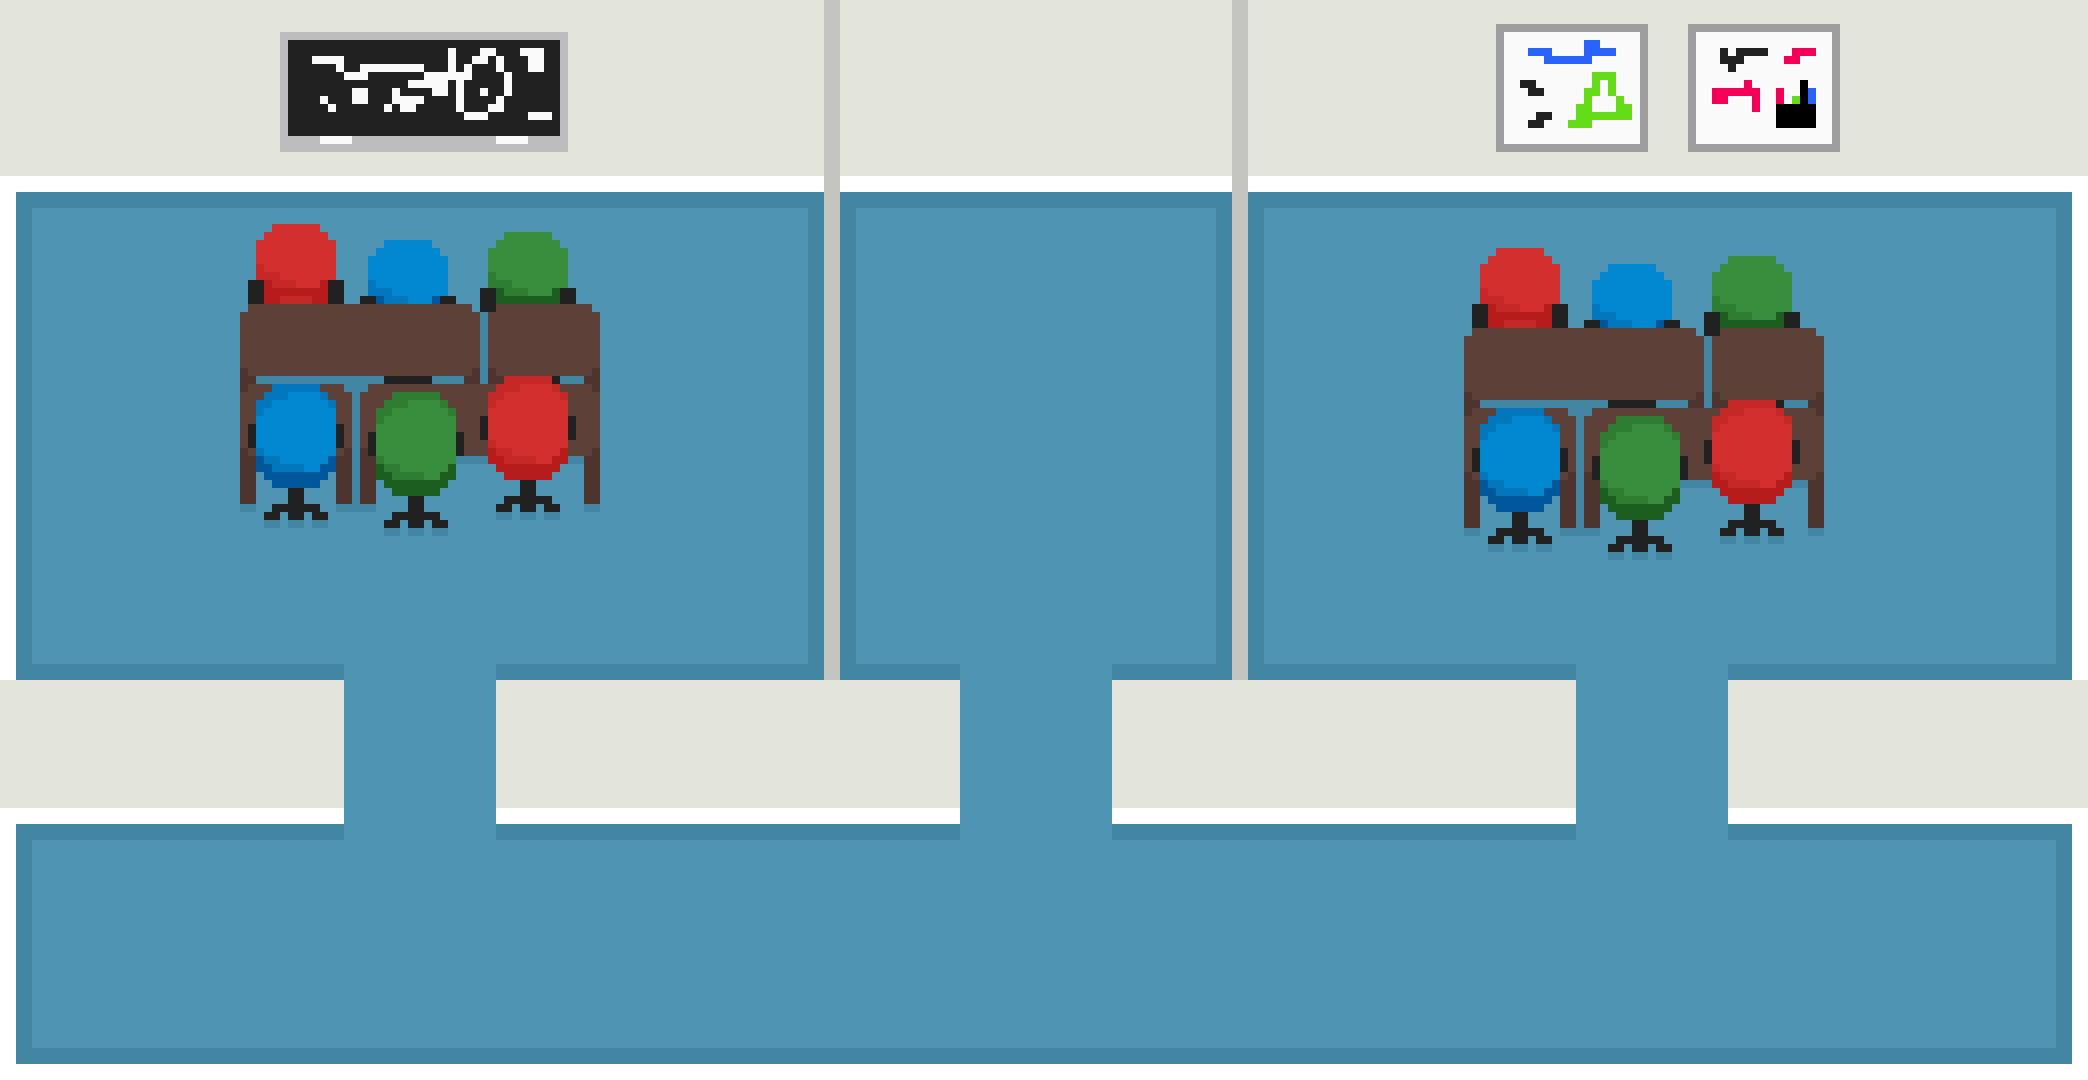
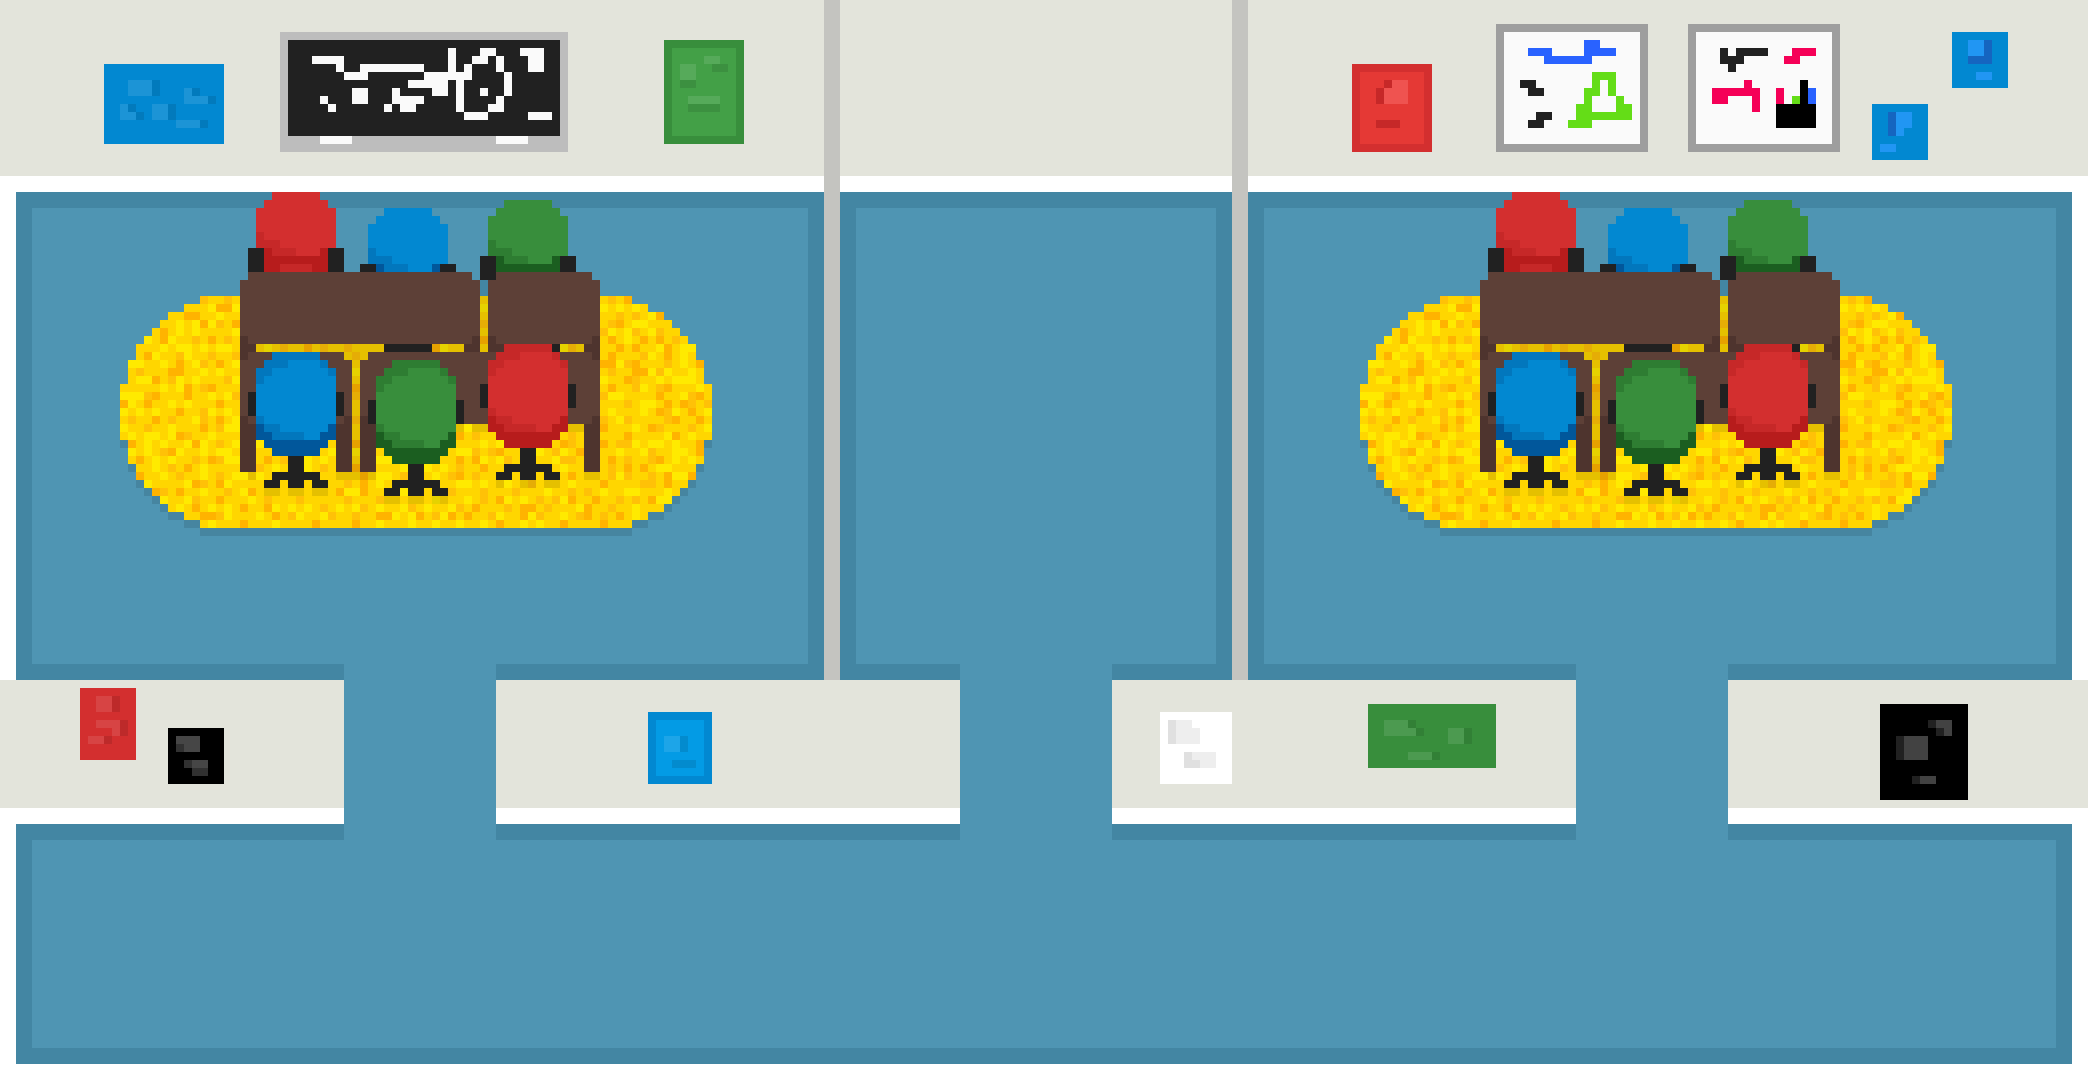
Adding conference room art from Alison, as well as full collision boundaries and enemy spawn boxes for that room

diff --git a/final_project/core/src/com/mygdx/game/Boundary.java b/final_project/core/src/com/mygdx/game/Boundary.java
@@ -46,6 +46,10 @@ public class Boundary extends Actor {
             boundaries.add(new Rectangle(968, 344, 160, 336));
             boundaries.add(new Rectangle(520, 752, 96, 328));
             boundaries.add(new Rectangle(1704, 560, 16, 520));
+            boundaries.add(new Rectangle(1392, 40, 496, 160));
+            boundaries.add(new Rectangle(1512, 200, 376, 96));
+            boundaries.add(new Rectangle(1528, 296, 128, 112));
+            boundaries.add(new Rectangle(1656, 296, 80, 64));
             List<Integer> location1 = new ArrayList<>();
             location1.add(450);
             location1.add(776);
@@ -58,6 +62,39 @@ public class Boundary extends Actor {
             location2.add(450);
             location2.add(900);
             enemyLocations.add(location2);
+        } else if(filename.equals("conference-room.png")){
+            boundaries.add(new Rectangle(240, 584, 360, 320));
+            boundaries.add(new Rectangle(1480, 584, 360, 320));
+            boundaries.add(new Rectangle(16, 256, 328, 144));
+            boundaries.add(new Rectangle(496, 256, 464, 144));
+            boundaries.add(new Rectangle(1112, 256, 464, 144));
+            boundaries.add(new Rectangle(1728, 256, 344, 144));
+            boundaries.add(new Rectangle(824, 400, 16, 504));
+            boundaries.add(new Rectangle(1232, 400, 16, 504));
+            List<Integer> location1 = new ArrayList<>();
+            location1.add(48);
+            location1.add(2032);
+            location1.add(40);
+            location1.add(224);
+            enemyLocations.add(location1);
+            List<Integer> location2 = new ArrayList<>();
+            location2.add(56);
+            location2.add(776);
+            location2.add(424);
+            location2.add(536);
+            enemyLocations.add(location2);
+            List<Integer> location3 = new ArrayList<>();
+            location3.add(1280);
+            location3.add(2032);
+            location3.add(424);
+            location3.add(536);
+            enemyLocations.add(location3);
+            List<Integer> location4 = new ArrayList<>();
+            location4.add(880);
+            location4.add(1184);
+            location4.add(432);
+            location4.add(752);
+            enemyLocations.add(location4);
         } else if(filename.equals("blank-room.png")){
             List<Integer> location1 = new ArrayList<>();
             location1.add(150);

diff --git a/final_project/core/src/com/mygdx/game/Layout.java b/final_project/core/src/com/mygdx/game/Layout.java
@@ -108,6 +108,7 @@ public class Layout {
         roomNames = new ArrayList<>();
         roomNames.add("blank-room.png");
         roomNames.add("server-closet.png");
+        roomNames.add("conference-room.png");
     }
 
     public boolean getDoorTouched(Player player){
